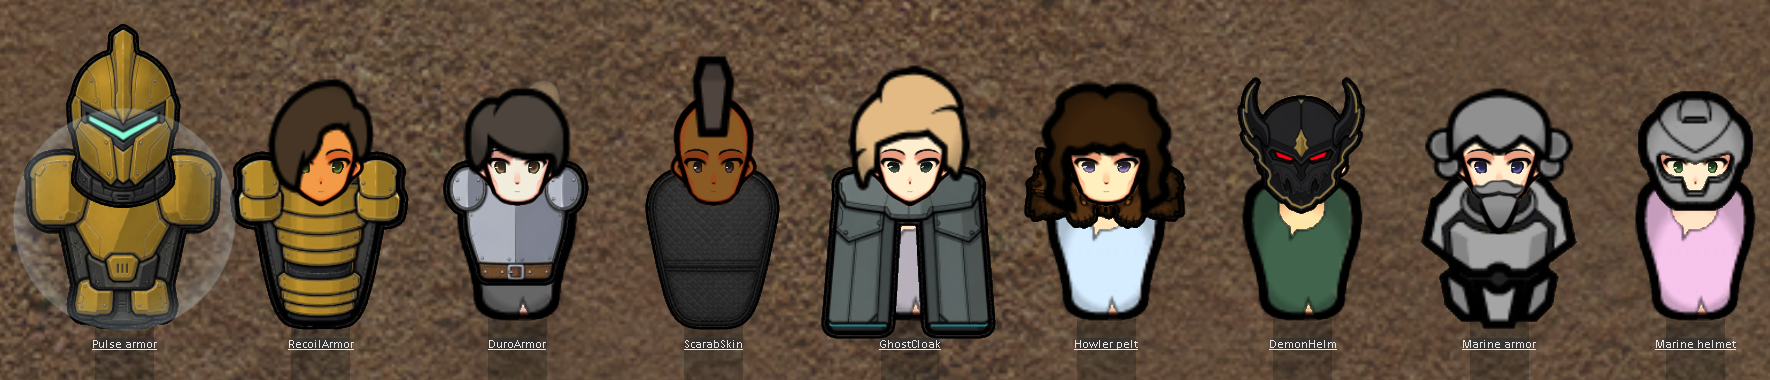
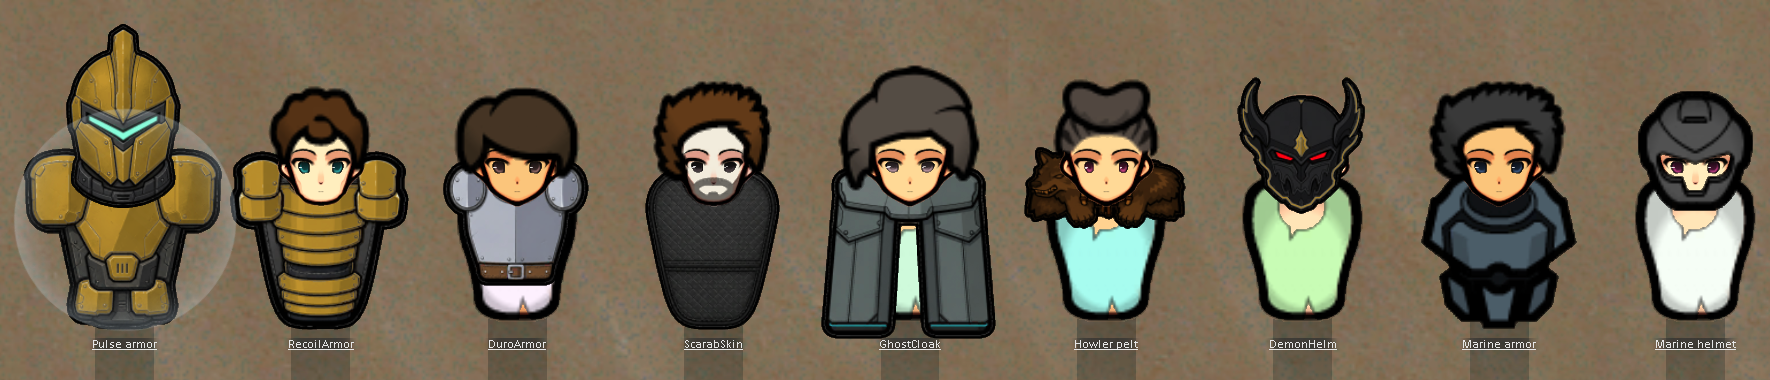
duroArmor: the cuirass follows Fat and Hulk bodies to the belt
The plate tapered to the belt, which fits a narrowing waist; on Fat's
belly and Hulk's waist it sat like a small box with the body bulging past
it. On those two bodies Draw-PanelArmor.py now widens the cuirass and
belt to the padded body outline. The six Fat and Hulk sprites were
regenerated (gpt-image-2 edit, same style image and prompt as the set)
and cleaned; Male, Female and Thin are unchanged. Gallery 01 and 02
reshot with it.

diff --git a/Tools/Draw-PanelArmor.py b/Tools/Draw-PanelArmor.py
@@ -402,17 +402,36 @@ def duro_armor(fr, facing, body_mask, legs=None):
     steel with a pressed centre ridge, a leather belt, small caps set close to the
     neck. No suit is drawn under it - whatever the pawn wears shows below and
     around it, which is what makes it read as cheap kit over clothes. Torso and
-    shoulders only, so it never has legs."""
+    shoulders only, so it never has legs.
+
+    BIG BODIES follow the body. The cuirass tapers to the belt, which fits a waist
+    that narrows (Male, Female, Thin). Fat's belly and Hulk's waist WIDEN there, so
+    on them the tapered plate sat on the body like a small box, with the belly or
+    shirt bulging past it on both sides (judged in the armour scene, 2026-10-24).
+    On Fat and Hulk the plate and belt take the body's own width down to the belt."""
     P = []
 
     def add(mask, tone, side=None):
         P.append((mask, tone, side if side is not None else np.zeros_like(mask)))
 
+    big = getattr(fr, "body", None) in ("Fat", "Hulk")
+    # The body outline padded out a little: plate stands proud of what it covers.
+    hug = cw.dilate(body_mask, 2.0 * SS) if big else None
+
+    def follow(mask, v0, v1):
+        """On a big body, widen mask to the padded body between v0 and v1."""
+        if not big:
+            return mask
+        band = hug & (fr.v >= v0) & (fr.v <= v1)
+        return cw.blur(cw.blur((mask | band).astype(np.float32), fr.px(0.03)), fr.px(0.03)) > 0.5
+
     if facing in ("south", "north"):
         cuirass = poly(fr, [(0.08, 0.10), (0.92, 0.10), (0.90, 0.40), (0.78, 0.68), (0.22, 0.68), (0.10, 0.40)], round_=0.05)
+        cuirass = follow(cuirass, 0.22, 0.68)
         # The pressed ridge down the middle IS the plane break: left lit, right dark.
         add(cuirass, "steel", plane_split(fr, cuirass, 1.0, 0.0, 0.5))
-        add(poly(fr, [(0.20, 0.62), (0.80, 0.62), (0.78, 0.70), (0.22, 0.70)], round_=0.015), "strap")
+        belt = poly(fr, [(0.20, 0.62), (0.80, 0.62), (0.78, 0.70), (0.22, 0.70)], round_=0.015)
+        add(follow(belt, 0.62, 0.70) & (fr.v >= 0.615) & (fr.v <= 0.705), "strap")
         if facing == "south":
             add(poly(fr, [(0.45, 0.62), (0.55, 0.62), (0.55, 0.70), (0.45, 0.70)], round_=0.01), "trim")
             add(ellipse(fr, 0.5, 0.08, 0.17, 0.08), "suit")       # neck opening
@@ -423,8 +442,10 @@ def duro_armor(fr, facing, body_mask, legs=None):
             add(cap, "steel", plane_split(fr, cap, 1.0, 0.0, cu))
     else:
         cuirass = poly(fr, [(0.08, 0.10), (0.78, 0.08), (1.02, 0.26), (0.96, 0.52), (0.82, 0.68), (0.14, 0.68)], round_=0.06)
+        cuirass = follow(cuirass, 0.22, 0.68)
         add(cuirass, "steel", plane_split(fr, cuirass, 0.0, 1.0, 0.40))
-        add(poly(fr, [(0.12, 0.62), (0.86, 0.62), (0.84, 0.70), (0.14, 0.70)], round_=0.015), "strap")
+        belt = poly(fr, [(0.12, 0.62), (0.86, 0.62), (0.84, 0.70), (0.14, 0.70)], round_=0.015)
+        add(follow(belt, 0.62, 0.70) & (fr.v >= 0.615) & (fr.v <= 0.705), "strap")
         cap = ellipse(fr, 0.44, 0.12, 0.22, 0.12)
         add(cap, "steel", plane_split(fr, cap, 0.0, 1.0, 0.14))
     return P
@@ -580,6 +601,7 @@ def draw(design, body, facing, box=None, rb=False):
         box = _scaled_box(HEAD_BOX, HELM_SCALE)
     box = box or cw.BOXES[body][kind]
     fr = Frame(box, cw.BOXES["Male"][kind])
+    fr.body = body
     n = CANVAS * SS
 
     # The body outline, from the compositor's fitted beans, as the suit layer.

diff --git a/CHANGELOG.md b/CHANGELOG.md
@@ -7,6 +7,8 @@
   check kept a cache that RimWorld's parallel pawn drawing wrote from several threads at once.
 - The Obsidian face mark is now a chevron on the brow. The old band across the eyes looked like a
   blindfold and spilled past the edge of the head.
+- duroArmor fits Fat and Hulk bodies: the cuirass and belt now follow the body down to the belt,
+  where before a narrow plate sat on the belly with the body bulging past it.
 
 ## 1.0.0 - first public release
 
